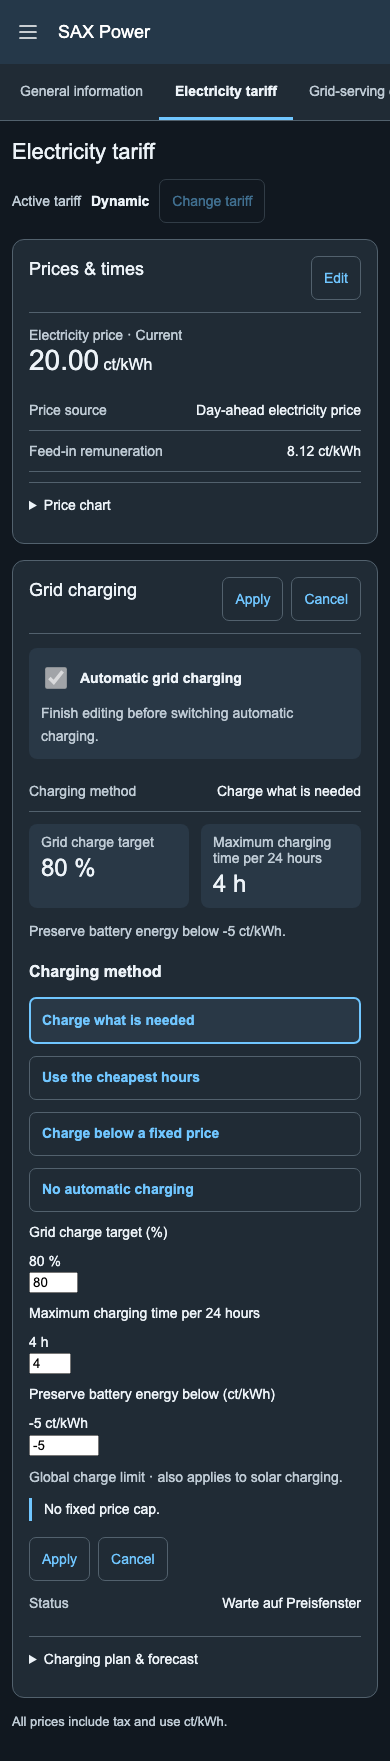
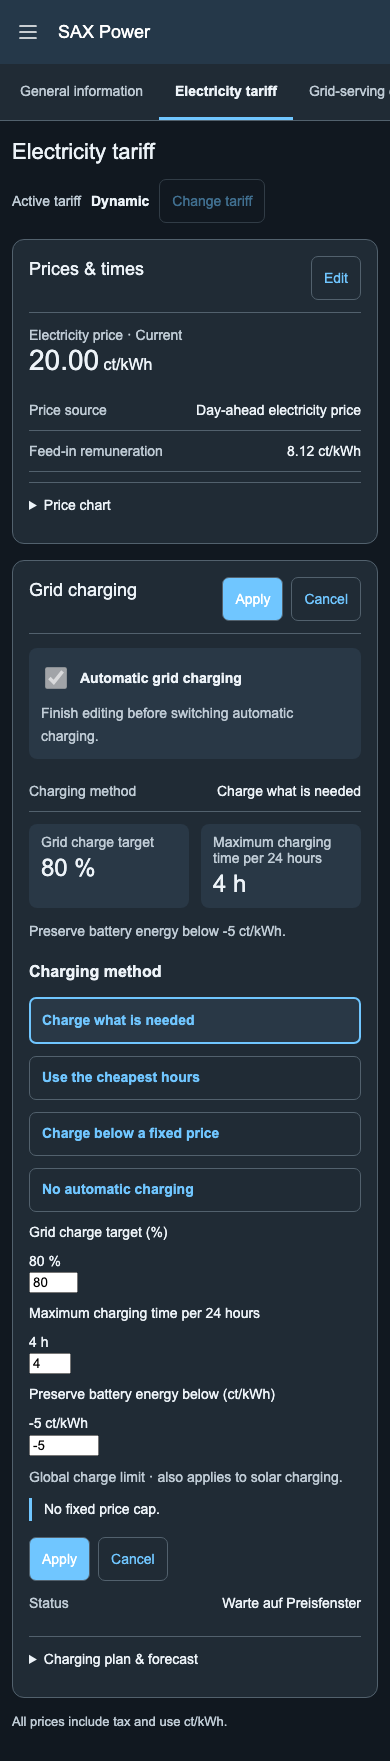
Hebe Übernehmen im gesamten Dashboard einheitlich hervor

Changed region(s): [[0.5538, 0.3123, 0.7385, 0.3748], [0.0615, 0.8745, 0.2462, 0.9057]]

diff --git a/custom_components/sax_power/frontend/sax-power-vue.js b/custom_components/sax_power/frontend/sax-power-vue.js
@@ -3514,7 +3514,7 @@ function mo(e, t) {
 }
 //#endregion
 //#region src/components/EditorActions.vue?vue&type=style&index=0&inline&lang.css
-var ho = ".editor-actions{flex-wrap:nowrap;align-items:center;gap:8px;max-width:100%;display:flex}.editor-actions>button{white-space:nowrap;flex:none}", go = (e, t) => {
+var ho = ".editor-actions{flex-wrap:nowrap;align-items:center;gap:8px;max-width:100%;display:flex}.editor-actions>button{white-space:nowrap;flex:none}.editor-actions>button:first-child:not(:only-child){background:var(--primary-color,#03a9f4);color:var(--text-primary-color,#fff)}", go = (e, t) => {
 	let n = e.__vccOpts || e;
 	for (let [e, r] of t) n[e] = r;
 	return n;
@@ -5625,7 +5625,7 @@ var Ds = ["aria-busy"], Os = { class: "time-window-control__inputs" }, ks = ["fo
 			])
 		], 10, kc)) : X("", !0);
 	}
-}), [["styles", [".tariff-plan{border:var(--ha-card-border-width,1px) solid var(--ha-card-border-color,var(--divider-color,#e0e0e0));border-radius:var(--ha-card-border-radius,12px);background:var(--ha-card-background,var(--card-background-color,#fff));min-width:0;box-shadow:var(--ha-card-box-shadow,none);color:var(--primary-text-color,#212121);padding:24px}.tariff-plan h2{margin:0 0 20px;font-size:18px;font-weight:500;line-height:1.5}.tariff-plan__introduction{color:var(--secondary-text-color,#666);margin:0 0 16px}.tariff-plan__compact-summary{margin:0}.tariff-plan__periods{margin:12px 0;padding:0;list-style:none}.tariff-plan__periods li{border-top:1px solid var(--divider-color,#e0e0e0);flex-wrap:wrap;justify-content:space-between;gap:4px 12px;padding:10px 0;line-height:1.5;display:flex}.tariff-plan__period-price{flex-wrap:wrap;align-items:center;gap:8px;display:flex}.tariff-plan__badge{border:1px solid var(--success-color,#43a047);border-radius:6px;margin-inline-start:8px;padding:2px 7px;font-size:12px;font-weight:500;line-height:1.5;display:inline-block}.tariff-plan__periods strong{white-space:nowrap}.tariff-plan__step{margin:20px 0}.tariff-plan__step h3{margin:0 0 10px;font-size:15px;line-height:1.5}.tariff-plan__step>label{max-width:460px}.tariff-plan__step>label input{max-width:240px}.tariff-plan__step .tariff-plan__hint{margin-top:0}.tariff-plan__impact{background:var(--secondary-background-color,#f5f5f5);border-radius:8px;margin:16px 0;padding:14px;font-size:14px;line-height:1.6}.tariff-plan__impact p{margin:6px 0}.tariff-plan__empty{color:var(--secondary-text-color,#666);font-size:14px}.tariff-plan__overview{grid-template-columns:repeat(auto-fit,minmax(min(100%,220px),1fr));gap:12px;display:grid}.tariff-plan__overview>p{margin:0}.tariff-plan__current-price{background:var(--secondary-background-color,#f5f5f5);border-radius:8px;flex-direction:column;gap:4px;padding:12px;display:flex}.tariff-plan__current-price>span{color:var(--secondary-text-color,#666);font-size:14px}.tariff-plan__current-price>strong{font-variant-numeric:tabular-nums;font-size:26px}.tariff-plan__low-status{padding:12px 0;font-size:14px}.tariff-plan__low-unavailable{border-inline-start:3px solid var(--warning-color,#ff9800);padding-inline-start:12px;font-size:14px}.tariff-plan p{overflow-wrap:anywhere;line-height:1.6}.tariff-plan p:last-child{margin-bottom:0}.tariff-plan__scroll{overflow-x:auto}.tariff-plan__table{border-collapse:collapse;font-variant-numeric:tabular-nums;width:100%;line-height:1.5}.tariff-plan__table th,.tariff-plan__table td{text-align:left;white-space:nowrap;border-bottom:1px solid var(--divider-color,#e0e0e0);padding:10px 8px}.tariff-plan__table th:last-child,.tariff-plan__table td:last-child{text-align:right}.tariff-plan__current{background:var(--secondary-background-color,color-mix(in srgb, currentColor 8%, transparent));font-weight:600}.tariff-plan__header{flex-wrap:wrap;justify-content:space-between;align-items:center;gap:12px;margin-bottom:12px;display:flex}.tariff-plan__header h2{margin:0}.tariff-plan button{font:inherit;cursor:pointer;min-height:44px;color:var(--primary-color,#03a9f4);border:1px solid var(--divider-color,#e0e0e0);background:0 0;border-radius:8px;padding:8px 12px}.tariff-plan button:disabled{cursor:default;opacity:.5}.tariff-plan button:focus-visible,.tariff-plan input:focus-visible,.tariff-plan summary:focus-visible,.tariff-plan__scroll:focus-visible{outline:2px solid var(--primary-color,#03a9f4);outline-offset:2px}.tariff-plan__editor{margin-bottom:16px}.tariff-plan__editor fieldset{border:0;min-width:0;margin:0;padding:0}.tariff-plan__editor label{flex-direction:column;gap:6px;min-width:0;font-size:14px;display:flex}.tariff-plan__editor input{box-sizing:border-box;border:1px solid var(--divider-color,#bbb);width:100%;min-width:0;min-height:44px;font:inherit;font-variant-numeric:tabular-nums;color:var(--primary-text-color,#212121);background:var(--card-background-color,#fff);border-radius:6px;padding:10px}.tariff-plan__editor small,.tariff-plan__hint{color:var(--secondary-text-color,#666);font-size:13px}.tariff-plan__window{border-top:1px solid var(--divider-color,#e0e0e0);grid-template-columns:repeat(2,minmax(0,1fr));align-items:end;gap:12px;margin-top:20px;padding-top:16px;display:grid}.tariff-plan__window-name{grid-column:1/-1;font-size:14px;font-weight:600}.tariff-plan__window label:nth-of-type(3){grid-column:1}.tariff-plan__remove{justify-self:end}.tariff-plan__add{margin-top:16px}.tariff-plan__actions{flex-wrap:wrap;gap:8px;display:flex}.tariff-plan .tariff-plan__save{background:var(--primary-color,#03a9f4);color:var(--text-primary-color,#fff)}.tariff-plan__error{color:var(--error-color,#db4437)}.tariff-plan input[aria-invalid=true]{border-color:var(--error-color,#db4437)}.tariff-plan__details{margin-top:14px;font-size:14px}.tariff-plan__details summary{cursor:pointer;color:var(--secondary-text-color,#666);box-sizing:border-box;min-height:44px;padding:12px 0;line-height:1.5}@media (max-width:400px){.tariff-plan__window{grid-template-columns:minmax(0,1fr)}}@media (max-width:600px){.tariff-plan{padding:20px}}@container sax-content (width>=860px){.tariff-plan{padding:18px}.tariff-plan h2{margin-bottom:12px;font-size:16px}.tariff-plan p{margin-top:10px;line-height:1.5}.tariff-plan__table th,.tariff-plan__table td{padding:7px 8px}}.tariff-plan.tariff-plan--compact{box-shadow:none;background:0 0;border:0;border-radius:0;padding:0}.tariff-plan--compact .tariff-plan__header{border-bottom:1px solid var(--divider-color,#ddd);flex-wrap:nowrap;margin-bottom:14px;padding-bottom:12px}.tariff-plan--compact .tariff-plan__header h2{margin:0;font-size:18px}.tariff-plan--compact .tariff-plan__header button{flex-shrink:0}.tariff-plan__price-highlights{flex-wrap:wrap;justify-content:space-between;align-items:center;gap:8px 16px;margin-bottom:12px;display:flex}.tariff-plan--compact .tariff-plan__low-status{text-align:right;margin:0;padding:0}.tariff-plan__low-status>span{color:var(--secondary-text-color,#666);display:block}.tariff-plan__low-status>strong{font-size:20px;font-weight:500;display:block}.tariff-plan__base-row,.tariff-plan__feed-row{border-top:1px solid var(--divider-color,#ddd);justify-content:space-between;align-items:center;gap:8px 12px;padding:10px 0;display:flex}.tariff-plan__base-row small{color:var(--secondary-text-color,#666);font-size:13px;display:block}.tariff-plan__feed-row>span{color:var(--secondary-text-color,#666)}.tariff-plan__feed-row strong{white-space:nowrap;font-weight:500}.tariff-plan--compact .tariff-plan__periods{margin:0}.tariff-plan--compact .tariff-plan__period-status{color:var(--secondary-text-color,#666);font-size:13px}.tariff-plan--compact .tariff-plan__impact{margin:10px 0 0;padding:8px 10px}.tariff-plan--compact>.tariff-plan__details{border-top:1px solid var(--divider-color,#ddd);margin-top:8px}"]]]);
+}), [["styles", [".tariff-plan{border:var(--ha-card-border-width,1px) solid var(--ha-card-border-color,var(--divider-color,#e0e0e0));border-radius:var(--ha-card-border-radius,12px);background:var(--ha-card-background,var(--card-background-color,#fff));min-width:0;box-shadow:var(--ha-card-box-shadow,none);color:var(--primary-text-color,#212121);padding:24px}.tariff-plan h2{margin:0 0 20px;font-size:18px;font-weight:500;line-height:1.5}.tariff-plan__introduction{color:var(--secondary-text-color,#666);margin:0 0 16px}.tariff-plan__compact-summary{margin:0}.tariff-plan__periods{margin:12px 0;padding:0;list-style:none}.tariff-plan__periods li{border-top:1px solid var(--divider-color,#e0e0e0);flex-wrap:wrap;justify-content:space-between;gap:4px 12px;padding:10px 0;line-height:1.5;display:flex}.tariff-plan__period-price{flex-wrap:wrap;align-items:center;gap:8px;display:flex}.tariff-plan__badge{border:1px solid var(--success-color,#43a047);border-radius:6px;margin-inline-start:8px;padding:2px 7px;font-size:12px;font-weight:500;line-height:1.5;display:inline-block}.tariff-plan__periods strong{white-space:nowrap}.tariff-plan__step{margin:20px 0}.tariff-plan__step h3{margin:0 0 10px;font-size:15px;line-height:1.5}.tariff-plan__step>label{max-width:460px}.tariff-plan__step>label input{max-width:240px}.tariff-plan__step .tariff-plan__hint{margin-top:0}.tariff-plan__impact{background:var(--secondary-background-color,#f5f5f5);border-radius:8px;margin:16px 0;padding:14px;font-size:14px;line-height:1.6}.tariff-plan__impact p{margin:6px 0}.tariff-plan__empty{color:var(--secondary-text-color,#666);font-size:14px}.tariff-plan__overview{grid-template-columns:repeat(auto-fit,minmax(min(100%,220px),1fr));gap:12px;display:grid}.tariff-plan__overview>p{margin:0}.tariff-plan__current-price{background:var(--secondary-background-color,#f5f5f5);border-radius:8px;flex-direction:column;gap:4px;padding:12px;display:flex}.tariff-plan__current-price>span{color:var(--secondary-text-color,#666);font-size:14px}.tariff-plan__current-price>strong{font-variant-numeric:tabular-nums;font-size:26px}.tariff-plan__low-status{padding:12px 0;font-size:14px}.tariff-plan__low-unavailable{border-inline-start:3px solid var(--warning-color,#ff9800);padding-inline-start:12px;font-size:14px}.tariff-plan p{overflow-wrap:anywhere;line-height:1.6}.tariff-plan p:last-child{margin-bottom:0}.tariff-plan__scroll{overflow-x:auto}.tariff-plan__table{border-collapse:collapse;font-variant-numeric:tabular-nums;width:100%;line-height:1.5}.tariff-plan__table th,.tariff-plan__table td{text-align:left;white-space:nowrap;border-bottom:1px solid var(--divider-color,#e0e0e0);padding:10px 8px}.tariff-plan__table th:last-child,.tariff-plan__table td:last-child{text-align:right}.tariff-plan__current{background:var(--secondary-background-color,color-mix(in srgb, currentColor 8%, transparent));font-weight:600}.tariff-plan__header{flex-wrap:wrap;justify-content:space-between;align-items:center;gap:12px;margin-bottom:12px;display:flex}.tariff-plan__header h2{margin:0}.tariff-plan button{font:inherit;cursor:pointer;min-height:44px;color:var(--primary-color,#03a9f4);border:1px solid var(--divider-color,#e0e0e0);background:0 0;border-radius:8px;padding:8px 12px}.tariff-plan button:disabled{cursor:default;opacity:.5}.tariff-plan button:focus-visible,.tariff-plan input:focus-visible,.tariff-plan summary:focus-visible,.tariff-plan__scroll:focus-visible{outline:2px solid var(--primary-color,#03a9f4);outline-offset:2px}.tariff-plan__editor{margin-bottom:16px}.tariff-plan__editor fieldset{border:0;min-width:0;margin:0;padding:0}.tariff-plan__editor label{flex-direction:column;gap:6px;min-width:0;font-size:14px;display:flex}.tariff-plan__editor input{box-sizing:border-box;border:1px solid var(--divider-color,#bbb);width:100%;min-width:0;min-height:44px;font:inherit;font-variant-numeric:tabular-nums;color:var(--primary-text-color,#212121);background:var(--card-background-color,#fff);border-radius:6px;padding:10px}.tariff-plan__editor small,.tariff-plan__hint{color:var(--secondary-text-color,#666);font-size:13px}.tariff-plan__window{border-top:1px solid var(--divider-color,#e0e0e0);grid-template-columns:repeat(2,minmax(0,1fr));align-items:end;gap:12px;margin-top:20px;padding-top:16px;display:grid}.tariff-plan__window-name{grid-column:1/-1;font-size:14px;font-weight:600}.tariff-plan__window label:nth-of-type(3){grid-column:1}.tariff-plan__remove{justify-self:end}.tariff-plan__add{margin-top:16px}.tariff-plan__actions{flex-wrap:wrap;gap:8px;display:flex}.tariff-plan__error{color:var(--error-color,#db4437)}.tariff-plan input[aria-invalid=true]{border-color:var(--error-color,#db4437)}.tariff-plan__details{margin-top:14px;font-size:14px}.tariff-plan__details summary{cursor:pointer;color:var(--secondary-text-color,#666);box-sizing:border-box;min-height:44px;padding:12px 0;line-height:1.5}@media (max-width:400px){.tariff-plan__window{grid-template-columns:minmax(0,1fr)}}@media (max-width:600px){.tariff-plan{padding:20px}}@container sax-content (width>=860px){.tariff-plan{padding:18px}.tariff-plan h2{margin-bottom:12px;font-size:16px}.tariff-plan p{margin-top:10px;line-height:1.5}.tariff-plan__table th,.tariff-plan__table td{padding:7px 8px}}.tariff-plan.tariff-plan--compact{box-shadow:none;background:0 0;border:0;border-radius:0;padding:0}.tariff-plan--compact .tariff-plan__header{border-bottom:1px solid var(--divider-color,#ddd);flex-wrap:nowrap;margin-bottom:14px;padding-bottom:12px}.tariff-plan--compact .tariff-plan__header h2{margin:0;font-size:18px}.tariff-plan--compact .tariff-plan__header button{flex-shrink:0}.tariff-plan__price-highlights{flex-wrap:wrap;justify-content:space-between;align-items:center;gap:8px 16px;margin-bottom:12px;display:flex}.tariff-plan--compact .tariff-plan__low-status{text-align:right;margin:0;padding:0}.tariff-plan__low-status>span{color:var(--secondary-text-color,#666);display:block}.tariff-plan__low-status>strong{font-size:20px;font-weight:500;display:block}.tariff-plan__base-row,.tariff-plan__feed-row{border-top:1px solid var(--divider-color,#ddd);justify-content:space-between;align-items:center;gap:8px 12px;padding:10px 0;display:flex}.tariff-plan__base-row small{color:var(--secondary-text-color,#666);font-size:13px;display:block}.tariff-plan__feed-row>span{color:var(--secondary-text-color,#666)}.tariff-plan__feed-row strong{white-space:nowrap;font-weight:500}.tariff-plan--compact .tariff-plan__periods{margin:0}.tariff-plan--compact .tariff-plan__period-status{color:var(--secondary-text-color,#666);font-size:13px}.tariff-plan--compact .tariff-plan__impact{margin:10px 0 0;padding:8px 10px}.tariff-plan--compact>.tariff-plan__details{border-top:1px solid var(--divider-color,#ddd);margin-top:8px}"]]]);
 //#endregion
 //#region src/tariff-chart.ts
 function Wl(e, t = 1e3) {
@@ -7166,7 +7166,7 @@ var Gl = ["aria-busy"], Kl = {
 			c.value ? (G(), K("p", Ef, I(i.value.gross), 1)) : X("", !0)
 		]));
 	}
-}), [["styles", [".electricity-tariff-view{gap:16px;min-width:0;margin-top:12px;display:grid}.electricity-card{border:1px solid var(--divider-color,#ddd);border-radius:var(--ha-card-border-radius,12px);background:var(--card-background-color,#fff);min-width:0;padding:16px 18px}.electricity-card h2{margin:0;font-size:18px}.electricity-card h3{margin:20px 0 10px;font-size:16px}.electricity-card p{margin:10px 0 0;line-height:1.6}.electricity-card button{font:inherit;cursor:pointer;border:1px solid var(--divider-color,#ddd);min-height:44px;color:var(--primary-color,#03a9f4);background:0 0;border-radius:7px;padding:8px 12px}.electricity-card button:disabled{opacity:.5;cursor:default}.electricity-card header,.electricity-tariff-bar__row{flex-wrap:wrap;justify-content:space-between;align-items:center;gap:16px;display:flex}.electricity-card header>div:not(.editor-actions){flex:1;min-width:0}.electricity-card header>.editor-actions{white-space:nowrap;flex-shrink:0}.electricity-active{flex-wrap:wrap;align-items:center;gap:10px;display:flex}.electricity-active>span,.electricity-muted{color:var(--secondary-text-color,#666)}.electricity-master{cursor:pointer;align-items:center;gap:10px;min-height:44px;display:flex}.electricity-master-status:empty{display:none}.electricity-master-status{border-left:3px solid var(--primary-color,#03a9f4);background:var(--secondary-background-color,#f5f5f5);padding:10px 14px;font-weight:500}.electricity-activation .electricity-master{margin-top:0;font-weight:600}.electricity-price-details{margin-top:16px}.electricity-master[aria-busy=true]{cursor:progress}.electricity-master input{width:22px;height:22px;accent-color:var(--primary-color,#03a9f4);flex-shrink:0}.electricity-choice{border-top:1px solid var(--divider-color,#ddd);margin-top:16px;padding-top:16px}.electricity-choice fieldset{border:0;grid-template-columns:repeat(2,minmax(0,1fr));gap:14px;min-width:0;padding:0;display:grid}.electricity-choice fieldset>label{border:1px solid var(--divider-color,#ddd);cursor:pointer;border-radius:8px;gap:12px;padding:14px;display:flex}.electricity-choice input{accent-color:var(--primary-color,#03a9f4);flex-shrink:0;width:20px;height:20px}.electricity-choice strong,.electricity-choice small{display:block}.electricity-choice small{color:var(--secondary-text-color,#666);margin-top:5px;font-size:14px}.electricity-actions{margin-top:16px}.electricity-actions button[type=submit]{background:var(--primary-color,#03a9f4);color:var(--text-primary-color,#fff)}.electricity-current-price{font-size:32px;font-weight:500;line-height:1.1!important}.electricity-current-price span{font-size:16px;font-weight:400}.electricity-days{gap:6px;margin-top:12px;display:flex}.electricity-days [aria-pressed=true]{background:var(--secondary-background-color,#eee);border-color:var(--primary-color,#03a9f4)}.electricity-day{margin:20px 0!important}.electricity-error{color:var(--error-color,#db4437)}.electricity-price-editor [aria-invalid=true]{border-color:var(--error-color,#db4437);outline:1px solid var(--error-color,#db4437)}.electricity-fields{grid-template-columns:repeat(2,minmax(0,1fr));gap:16px;margin-top:16px;display:grid}.electricity-fields>label{flex-direction:column;gap:6px;min-width:0;font-size:14px;display:flex}.electricity-fields input,.electricity-fields select{width:100%;min-width:0;min-height:44px;font:inherit;color:var(--primary-text-color,#222);background:var(--card-background-color,#fff);border:1px solid var(--divider-color,#ccc);border-radius:6px;padding:10px}.electricity-price-editor fieldset{border:0;min-width:0;margin:0;padding:0}.electricity-price-advanced{border-top:1px solid var(--divider-color,#ddd);margin-top:16px;padding-top:12px}.electricity-price-advanced>summary{cursor:pointer;align-content:center;min-height:44px}.dynamic-charging-settings .entity-control,.electricity-charging-editor .entity-control{margin-top:12px}.electricity-plan>summary,.electricity-price-details>summary{cursor:pointer;align-content:center;min-height:44px;font-size:14px;font-weight:500;display:list-item}.electricity-plan>.charge-plan{box-shadow:none;border:0;padding:16px 0 0}.electricity-sr-only{clip-path:inset(50%);width:1px;height:1px;position:absolute;overflow:hidden}@media (max-width:700px){.electricity-tariff-bar__row{flex-direction:column;align-items:flex-start}.electricity-fields,.electricity-choice fieldset{grid-template-columns:minmax(0,1fr)}.electricity-card{padding:16px}.electricity-card header{align-items:flex-start}.electricity-current-price{font-size:28px}}.electricity-columns{align-items:start;gap:16px;min-width:0;display:grid}.electricity-card.electricity-tariff-bar{background:0 0;border:0;padding:0}.electricity-tariff-bar__row{justify-content:flex-end}.electricity-active>strong{color:var(--primary-text-color,#212121)}.electricity-price-card{container:sax-tariff-prices/inline-size}.electricity-card.electricity-prices{border:0;border-radius:0;padding:0}.electricity-prices>header,.electricity-charging>header{border-bottom:1px solid var(--divider-color,#ddd);margin-bottom:14px;padding-bottom:12px}.electricity-card .electricity-current-price{margin:3px 0 0}.electricity-current{min-width:0}.electricity-prices>.electricity-current{margin:14px 0}.electricity-activation{background:var(--secondary-background-color,#f5f5f5);border-radius:8px;margin-bottom:12px;padding:8px 12px 12px}.electricity-activation>p{color:var(--secondary-text-color,#666);margin-top:2px}.electricity-summary-rows{margin:0}.electricity-summary-rows>div{border-bottom:1px solid var(--divider-color,#ddd);justify-content:space-between;align-items:center;gap:8px 16px;min-height:41px;padding:7px 0;display:flex}.electricity-summary-rows dt{color:var(--secondary-text-color,#666)}.electricity-summary-rows dd{text-align:right;overflow-wrap:anywhere;min-width:0;margin:0}.electricity-targets{grid-template-columns:repeat(2,minmax(0,1fr));gap:12px;margin:12px 0;display:grid}.electricity-target{background:var(--secondary-background-color,#f5f5f5);border-radius:8px;flex-direction:column;gap:4px;min-width:0;padding:10px 12px;display:flex}.electricity-target>span{color:var(--secondary-text-color,#666);font-size:14px}.electricity-target>strong{overflow-wrap:anywhere;font-size:24px;font-weight:500}.electricity-charge-status .entity-value{padding:12px 0}.electricity-plan,.electricity-price-details,.tou-charging-rules{border-top:1px solid var(--divider-color,#ddd);margin-top:10px;padding-top:0}.tou-charging-rules>summary{cursor:pointer;align-content:center;min-height:44px}.electricity-footnote{color:var(--secondary-text-color,#666);margin:0;font-size:13px}@container sax-content (width>=860px){.electricity-columns{grid-template-columns:minmax(0,1.14fr) minmax(0,1fr)}.electricity-tariff-view{margin-top:-36px}.electricity-tariff-bar__row{min-height:44px;padding-left:260px}}@container sax-tariff-prices (width<=560px){.electricity-fields{grid-template-columns:minmax(0,1fr);gap:10px}}"]]]), Of = { class: "savings-view" }, kf = { class: "savings-overview" }, Af = ["aria-labelledby"], jf = ["id"], Mf = ["aria-labelledby"], Nf = ["id"], Pf = {
+}), [["styles", [".electricity-tariff-view{gap:16px;min-width:0;margin-top:12px;display:grid}.electricity-card{border:1px solid var(--divider-color,#ddd);border-radius:var(--ha-card-border-radius,12px);background:var(--card-background-color,#fff);min-width:0;padding:16px 18px}.electricity-card h2{margin:0;font-size:18px}.electricity-card h3{margin:20px 0 10px;font-size:16px}.electricity-card p{margin:10px 0 0;line-height:1.6}.electricity-card button{font:inherit;cursor:pointer;border:1px solid var(--divider-color,#ddd);min-height:44px;color:var(--primary-color,#03a9f4);background:0 0;border-radius:7px;padding:8px 12px}.electricity-card button:disabled{opacity:.5;cursor:default}.electricity-card header,.electricity-tariff-bar__row{flex-wrap:wrap;justify-content:space-between;align-items:center;gap:16px;display:flex}.electricity-card header>div:not(.editor-actions){flex:1;min-width:0}.electricity-card header>.editor-actions{white-space:nowrap;flex-shrink:0}.electricity-active{flex-wrap:wrap;align-items:center;gap:10px;display:flex}.electricity-active>span,.electricity-muted{color:var(--secondary-text-color,#666)}.electricity-master{cursor:pointer;align-items:center;gap:10px;min-height:44px;display:flex}.electricity-master-status:empty{display:none}.electricity-master-status{border-left:3px solid var(--primary-color,#03a9f4);background:var(--secondary-background-color,#f5f5f5);padding:10px 14px;font-weight:500}.electricity-activation .electricity-master{margin-top:0;font-weight:600}.electricity-price-details{margin-top:16px}.electricity-master[aria-busy=true]{cursor:progress}.electricity-master input{width:22px;height:22px;accent-color:var(--primary-color,#03a9f4);flex-shrink:0}.electricity-choice{border-top:1px solid var(--divider-color,#ddd);margin-top:16px;padding-top:16px}.electricity-choice fieldset{border:0;grid-template-columns:repeat(2,minmax(0,1fr));gap:14px;min-width:0;padding:0;display:grid}.electricity-choice fieldset>label{border:1px solid var(--divider-color,#ddd);cursor:pointer;border-radius:8px;gap:12px;padding:14px;display:flex}.electricity-choice input{accent-color:var(--primary-color,#03a9f4);flex-shrink:0;width:20px;height:20px}.electricity-choice strong,.electricity-choice small{display:block}.electricity-choice small{color:var(--secondary-text-color,#666);margin-top:5px;font-size:14px}.electricity-actions{margin-top:16px}.electricity-current-price{font-size:32px;font-weight:500;line-height:1.1!important}.electricity-current-price span{font-size:16px;font-weight:400}.electricity-days{gap:6px;margin-top:12px;display:flex}.electricity-days [aria-pressed=true]{background:var(--secondary-background-color,#eee);border-color:var(--primary-color,#03a9f4)}.electricity-day{margin:20px 0!important}.electricity-error{color:var(--error-color,#db4437)}.electricity-price-editor [aria-invalid=true]{border-color:var(--error-color,#db4437);outline:1px solid var(--error-color,#db4437)}.electricity-fields{grid-template-columns:repeat(2,minmax(0,1fr));gap:16px;margin-top:16px;display:grid}.electricity-fields>label{flex-direction:column;gap:6px;min-width:0;font-size:14px;display:flex}.electricity-fields input,.electricity-fields select{width:100%;min-width:0;min-height:44px;font:inherit;color:var(--primary-text-color,#222);background:var(--card-background-color,#fff);border:1px solid var(--divider-color,#ccc);border-radius:6px;padding:10px}.electricity-price-editor fieldset{border:0;min-width:0;margin:0;padding:0}.electricity-price-advanced{border-top:1px solid var(--divider-color,#ddd);margin-top:16px;padding-top:12px}.electricity-price-advanced>summary{cursor:pointer;align-content:center;min-height:44px}.dynamic-charging-settings .entity-control,.electricity-charging-editor .entity-control{margin-top:12px}.electricity-plan>summary,.electricity-price-details>summary{cursor:pointer;align-content:center;min-height:44px;font-size:14px;font-weight:500;display:list-item}.electricity-plan>.charge-plan{box-shadow:none;border:0;padding:16px 0 0}.electricity-sr-only{clip-path:inset(50%);width:1px;height:1px;position:absolute;overflow:hidden}@media (max-width:700px){.electricity-tariff-bar__row{flex-direction:column;align-items:flex-start}.electricity-fields,.electricity-choice fieldset{grid-template-columns:minmax(0,1fr)}.electricity-card{padding:16px}.electricity-card header{align-items:flex-start}.electricity-current-price{font-size:28px}}.electricity-columns{align-items:start;gap:16px;min-width:0;display:grid}.electricity-card.electricity-tariff-bar{background:0 0;border:0;padding:0}.electricity-tariff-bar__row{justify-content:flex-end}.electricity-active>strong{color:var(--primary-text-color,#212121)}.electricity-price-card{container:sax-tariff-prices/inline-size}.electricity-card.electricity-prices{border:0;border-radius:0;padding:0}.electricity-prices>header,.electricity-charging>header{border-bottom:1px solid var(--divider-color,#ddd);margin-bottom:14px;padding-bottom:12px}.electricity-card .electricity-current-price{margin:3px 0 0}.electricity-current{min-width:0}.electricity-prices>.electricity-current{margin:14px 0}.electricity-activation{background:var(--secondary-background-color,#f5f5f5);border-radius:8px;margin-bottom:12px;padding:8px 12px 12px}.electricity-activation>p{color:var(--secondary-text-color,#666);margin-top:2px}.electricity-summary-rows{margin:0}.electricity-summary-rows>div{border-bottom:1px solid var(--divider-color,#ddd);justify-content:space-between;align-items:center;gap:8px 16px;min-height:41px;padding:7px 0;display:flex}.electricity-summary-rows dt{color:var(--secondary-text-color,#666)}.electricity-summary-rows dd{text-align:right;overflow-wrap:anywhere;min-width:0;margin:0}.electricity-targets{grid-template-columns:repeat(2,minmax(0,1fr));gap:12px;margin:12px 0;display:grid}.electricity-target{background:var(--secondary-background-color,#f5f5f5);border-radius:8px;flex-direction:column;gap:4px;min-width:0;padding:10px 12px;display:flex}.electricity-target>span{color:var(--secondary-text-color,#666);font-size:14px}.electricity-target>strong{overflow-wrap:anywhere;font-size:24px;font-weight:500}.electricity-charge-status .entity-value{padding:12px 0}.electricity-plan,.electricity-price-details,.tou-charging-rules{border-top:1px solid var(--divider-color,#ddd);margin-top:10px;padding-top:0}.tou-charging-rules>summary{cursor:pointer;align-content:center;min-height:44px}.electricity-footnote{color:var(--secondary-text-color,#666);margin:0;font-size:13px}@container sax-content (width>=860px){.electricity-columns{grid-template-columns:minmax(0,1.14fr) minmax(0,1fr)}.electricity-tariff-view{margin-top:-36px}.electricity-tariff-bar__row{min-height:44px;padding-left:260px}}@container sax-tariff-prices (width<=560px){.electricity-fields{grid-template-columns:minmax(0,1fr);gap:10px}}"]]]), Of = { class: "savings-view" }, kf = { class: "savings-overview" }, Af = ["aria-labelledby"], jf = ["id"], Mf = ["aria-labelledby"], Nf = ["id"], Pf = {
 	key: 0,
 	class: "savings-progress"
 }, Ff = ["id"], If = { class: "savings-large" }, Lf = [

diff --git a/frontend/src/views/ElectricityTariffView.vue b/frontend/src/views/ElectricityTariffView.vue
@@ -1443,10 +1443,6 @@ async function applyCharging(): Promise<void> {
 .electricity-actions {
   margin-top: 16px;
 }
-.electricity-actions button[type="submit"] {
-  background: var(--primary-color, #03a9f4);
-  color: var(--text-primary-color, #fff);
-}
 .electricity-current-price {
   font-size: 32px;
   font-weight: 500;

diff --git a/frontend/src/components/TariffPlan.vue b/frontend/src/components/TariffPlan.vue
@@ -1327,10 +1327,6 @@ watch(tariffVisible, (visible) => {
   flex-wrap: wrap;
   gap: 8px;
 }
-.tariff-plan .tariff-plan__save {
-  background: var(--primary-color, #03a9f4);
-  color: var(--text-primary-color, #fff);
-}
 .tariff-plan__error {
   color: var(--error-color, #db4437);
 }

diff --git a/frontend/src/components/EditorActions.vue b/frontend/src/components/EditorActions.vue
@@ -14,4 +14,8 @@
   flex: 0 0 auto;
   white-space: nowrap;
 }
+.editor-actions > button:first-child:not(:only-child) {
+  background: var(--primary-color, #03a9f4);
+  color: var(--text-primary-color, #fff);
+}
 </style>
